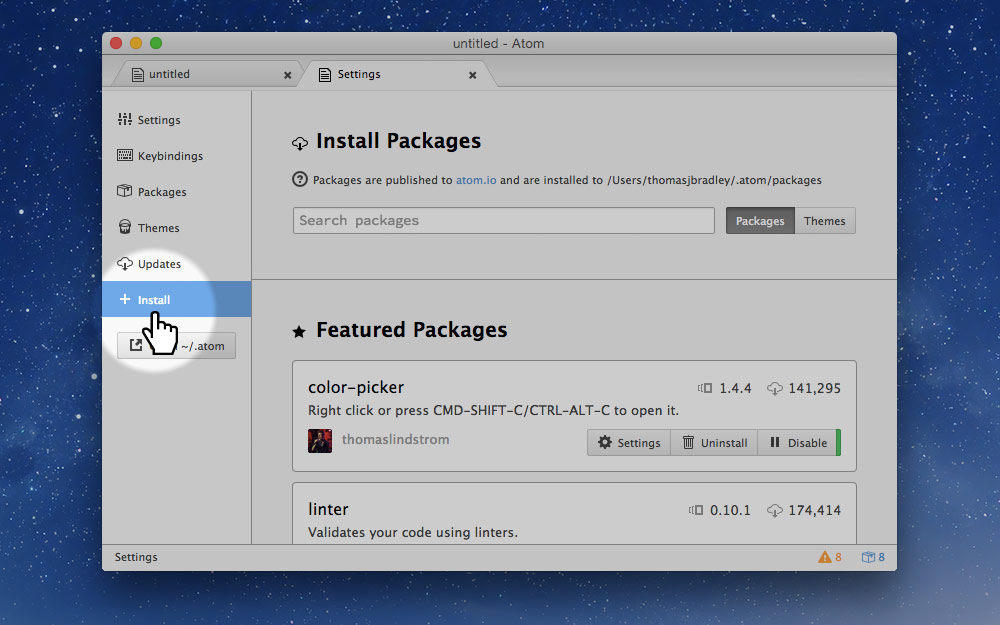
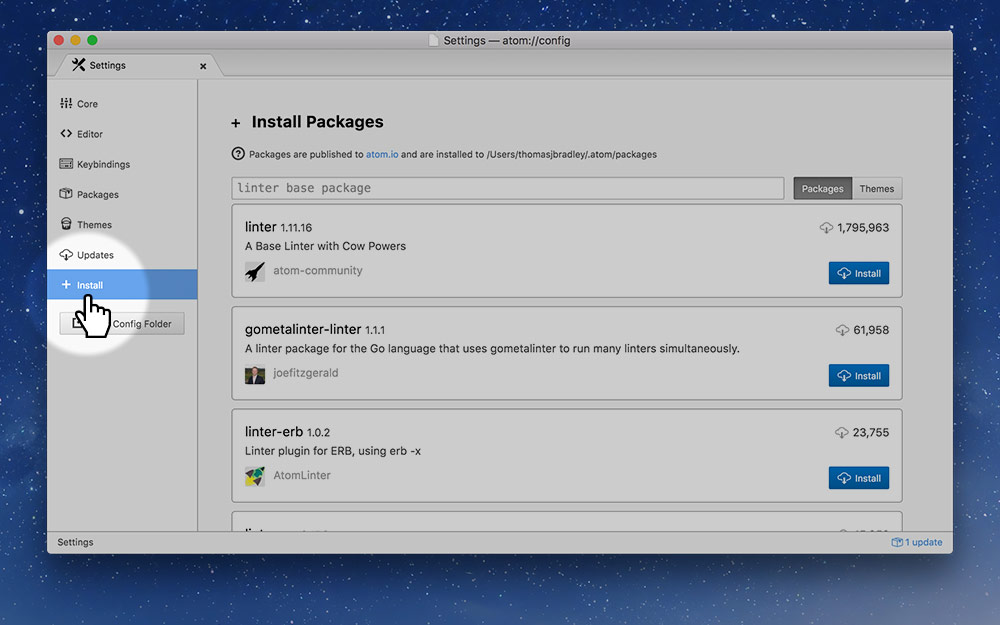
Clarify some Atom instructions and move all the Windows installation to another lesson

Changed region(s): [[0.031, 0.0304, 0.961, 0.9728], [0.31, 0.0608, 0.589, 0.1216], [0.217, 0.8208, 0.248, 0.8512]]

diff --git a/install-all-the-things-windows/fixer.html b/install-all-the-things-windows/fixer.html
@@ -1,0 +1,10 @@
+<!DOCTYPE html>
+<html lang="en-ca">
+<head>
+  <meta charset="utf-8">
+  <title>Fixer your HTML open preferences</title>
+</head>
+<body>
+  <h1>Yay HTML!</h1>
+</body>
+</html>

diff --git a/install-all-the-things-windows.md b/install-all-the-things-windows.md
@@ -1,0 +1,126 @@
+---
+layout: lesson
+title: "Install all the things!"
+desc: "Set up your computer, install all the different web browsers, install a code editor, and set up GitHub."
+
+hide_markbot: true
+
+steps:
+  - title: "Configure File Explorer"
+    before: |
+      Let’s change a few settings on your computer to make development life easier.
+
+      ![](file-explorer.jpg)
+
+      1. Go to a folder.
+      2. Go to the “View” tab.
+      3. Make sure “File name extensions” is checked.
+    notes:
+      - label: "Mac"
+        text: |
+          If you’re a Mac user, this tutorial isn’t for you.
+          <br>[**☛ Go to the Mac installation tutorial.**](/courses/web-dev-1/install-all-the-things/)
+
+  - title: "Install Firefox"
+    before: |
+      We need to install a bunch of browsers because, as web designers, we don’t know what browser someone will be using—so we need to test our websites in all of them.
+
+      1. Go to Mozilla’s website and [download Firefox](http://getfirefox.com/).
+      2. Run the installer on your computer by double clicking.
+    notes:
+      - label: "Warning"
+        text: "Make sure to only download Firefox directly from Mozilla—other websites may inject malware."
+
+  - title: "Install Chrome"
+    before: |
+      Go to Google’s website and [download Chrome](https://www.google.com/chrome/).
+      <br>*(Ditto steps above.)*
+    notes:
+      - label: "Warning"
+        text: "Make sure to only download Chrome directly from Google—other websites may inject malware."
+
+  - title: "Install Opera"
+    before: |
+      Go to Google’s website and [download Chrome](https://www.google.com/chrome/).
+      <br>*(Ditto steps above.)*
+    notes:
+      - label: "Warning"
+        text: "Make sure to only download Opera directly from Opera—other websites may inject malware."
+
+  - title: "Get HTML files to open properly"
+    before: |
+      This will make it so double clicking HTML files opens your browser instead of a code editor.
+
+      ![](properties.jpg)
+
+      1. <a href="fixer.html" download="fixer.html">Download this HTML file.</a>
+        *(If clicking this link doesn’t download the file, `Right Click > Download Linked File`.)*
+      2. Go to where it was downloaded and right click—press “Properties”.
+      3. Under the “Opens with” section, click the “Change…” button and set it to “Firefox” or “Chrome”.
+      5. Close the properties window and trash the HTML file.
+
+  - title: "Create a GitHub account"
+    before: |
+      Git is a version control system and GitHub allows us to host all our code & websites online. (More on these two things next week.)
+
+      1. Go to [GitHub](https://github.com/) and sign up for an account.
+        *Choose whatever username and email address you’d like.*
+      2. Choose the *free* plan when you get to that screen.
+
+      You’ll be handing in your profile page to Canvas later.
+    notes:
+      - label: "Remember"
+        text: "Though it shouldn’t need to be said: remember your password!"
+
+  - title: "Install GitHub Desktop"
+    before: |
+      We need to install the GitHub Desktop application so that we can manage and upload our code to GitHub.
+
+      1. Download the app from the [GitHub Desktop](https://desktop.github.com/) website.
+      2. Double click the installer and let it do its thing.
+      3. Sign in with your GitHub username, email address, and password.
+      4. When it asks you to look for repositories—press “Skip”.
+      5. *It will try to get you to do a tutorial with these little pop-up bubbles—don’t bother, press the little “x” icon on the bubble.*
+
+  - title: "Install the Command Line Tools"
+    before: |
+      We need to install some extra development tools on our computer so Markbot can work well.
+
+      **Go to [Git’s download page](https://git-scm.com/download/win) and download the Windows version.**
+
+      Install Git onto your computer. One of the setup screens has options we have to change.
+
+      *On the “Adjusting your PATH environment” screen, switch to “Use Git from the Windows Command Prompt”.*
+
+      ![](git.jpg)
+
+  - title: "Install the Java Developer Kit"
+    before: |
+      We need to install the JDK because the automated marking program, Markbot, needs access to Java for performing some of it’s tasks.
+
+      Go to the JDK download page on [Oracle’s Java Downloads](http://www.oracle.com/technetwork/java/javase/downloads/jdk8-downloads-2133151.html) website.
+
+      ![](jdk-license.jpg)
+
+      *Don’t forget to accept the license agreement.*
+
+      ![](jdk.jpg)
+
+      1. Download the JDK for your computer.
+      3. Double click the installer and let it do its thing.
+      5. Delete the downloaded file.
+
+  - title: "Install Markbot"
+    before: |
+      All of the coding exercises we do in this class will be using Markbot to automatically grade your work. So, we need to set that up.
+
+      1. Download [Markbot](https://www.dropbox.com/s/jhsf7oip8r126v1/Markbot%20Setup.exe?dl=1). (*or [Markbot for Mac](https://www.dropbox.com/s/w7y5wxp7mtcylkd/Install%20Markbot.dmg?dl=1)*)
+      3. Double click the installer and let it do its thing.
+      5. Delete the downloaded file.
+
+      **Open up Markbot and sign in with your GitHub username.**
+
+      *If Markbot gives you an “Unidentified developer” security warning—click the “More info” link and press “Run anyways”.*
+
+      ![](markbot.jpg)
+---

diff --git a/install-all-the-things.md b/install-all-the-things.md
@@ -16,6 +16,11 @@ steps:
       1. Go to `Finder > Preferences`.
       2. Go to “Advanced”.
       3. Make sure “Show all filename extensions” is checked.
+    notes:
+      - label: "Windows"
+        text: |
+          If you’re a Windows user, this tutorial isn’t for you.
+          <br>[**☛ Go to the Windows installation tutorial.**](/courses/web-dev-1/install-all-the-things-windows/)
 
   - title: "Configure keyboard preferences"
     before: |
@@ -107,9 +112,12 @@ steps:
       Normally you’d have to download IE/11 from [Microsoft directly](http://modern.ie)—but I’ve gone ahead and done that because it’s faster over the school network.
 
       1. Go to the Graphic Design Dropbox: `smb://dropbox.ottawa.ad.algonquincollege.com`
-      2. Go to my folder.
+        <br>*To connect: in Finder, go to `Go > Connect to Server…`*
+        <br>*The username and password is your Algonquin Wi-Fi password.*
+      2. Go to my folder
+        <br>`Faculty Folders > Thomas Bradley > Public`
       3. Look for a folder called “MS Browsers”.
-      4. Drag the two files to your computer.
+      4. Drag the two files to your computer—**do not double click**.
       5. Unzip them both.
         *(If you get a `cpgz` file, try right clicking on the original `zip` and pressing `Open With > The Unarchiver`.)*
       6. You’ll be presented with an orange “ova” box icon—double click it.
@@ -176,18 +184,6 @@ steps:
 
       ![](xcode-select-install.jpg)
 
-      ### Windows installation details
-
-      *On Microsoft Windows we need to install Git directly from the website.*
-
-      **Go to [Git’s download page](https://git-scm.com/download/win) and download the Windows version.**
-
-      Install Git onto your computer. One of the setup screens has options we have to change.
-
-      *On the “Adjusting your PATH environment” screen, switch to “Use Git from the Windows Command Prompt”.*
-
-      ![](windows-git.jpg)
-
   - title: "Install the Java Developer Kit"
     before: |
       We need to install the JDK because the automated marking program, Markbot, needs access to Java for performing some of it’s tasks.
@@ -217,6 +213,8 @@ steps:
       5. Delete the downloaded file.
 
       **Open up Markbot and sign in with your GitHub username.**
+
+      *If Markbot gives you an “Unidentified developer” security warning—instead of double-clicking, right click and press `Open`*
 
       ![](markbot.jpg)
 ---

diff --git a/set-up-your-code-editor.md b/set-up-your-code-editor.md
@@ -70,8 +70,6 @@ steps:
 
       Inside preferences to to the “Packages” tab to see all the ones already installed.
 
-      ![](packages.jpg)
-
       Go to the “Install” tab if you want to add new packages to your editor.
 
       On the install screen you can search for packages and install them into Atom.
@@ -87,10 +85,10 @@ steps:
       - `color-picker` — a pop-up color picker
       - `editorconfig` — for matching other designers’ coding standards
       - `emmet` — quick way to write HTML, using CSS selectors
-      - `advanced-open-file` — opens up a quick new file input at the bottom of the screen, ⌘⌥N
+      - `advanced-open-file` — opens up a quick new file input at the bottom of the screen, ⌘⌥O
       - `file-icons` — shows icons for each file type in the sidebar
       - `highlight-line` — draws a background behind the line you’re typing on
-      - `linter` — finds and points out bugs
+      - `linter` — finds and points out bugs<br>*try searching “linter base package” if it doesn’t show up*
       - `minimap` — adds an overview column of your code like Sublime Text
       - `open-in-browser` — pressing ⌘⌥M will pop open the HTML file in the browser
 
@@ -130,6 +128,7 @@ steps:
       ![](keymap-menu.jpg)
 
     code_file: "keymap.cson"
+    code_can_copy: true
     code: |
       '.pane .editor:not(.mini)':
         'tab': 'snippets:expand'
